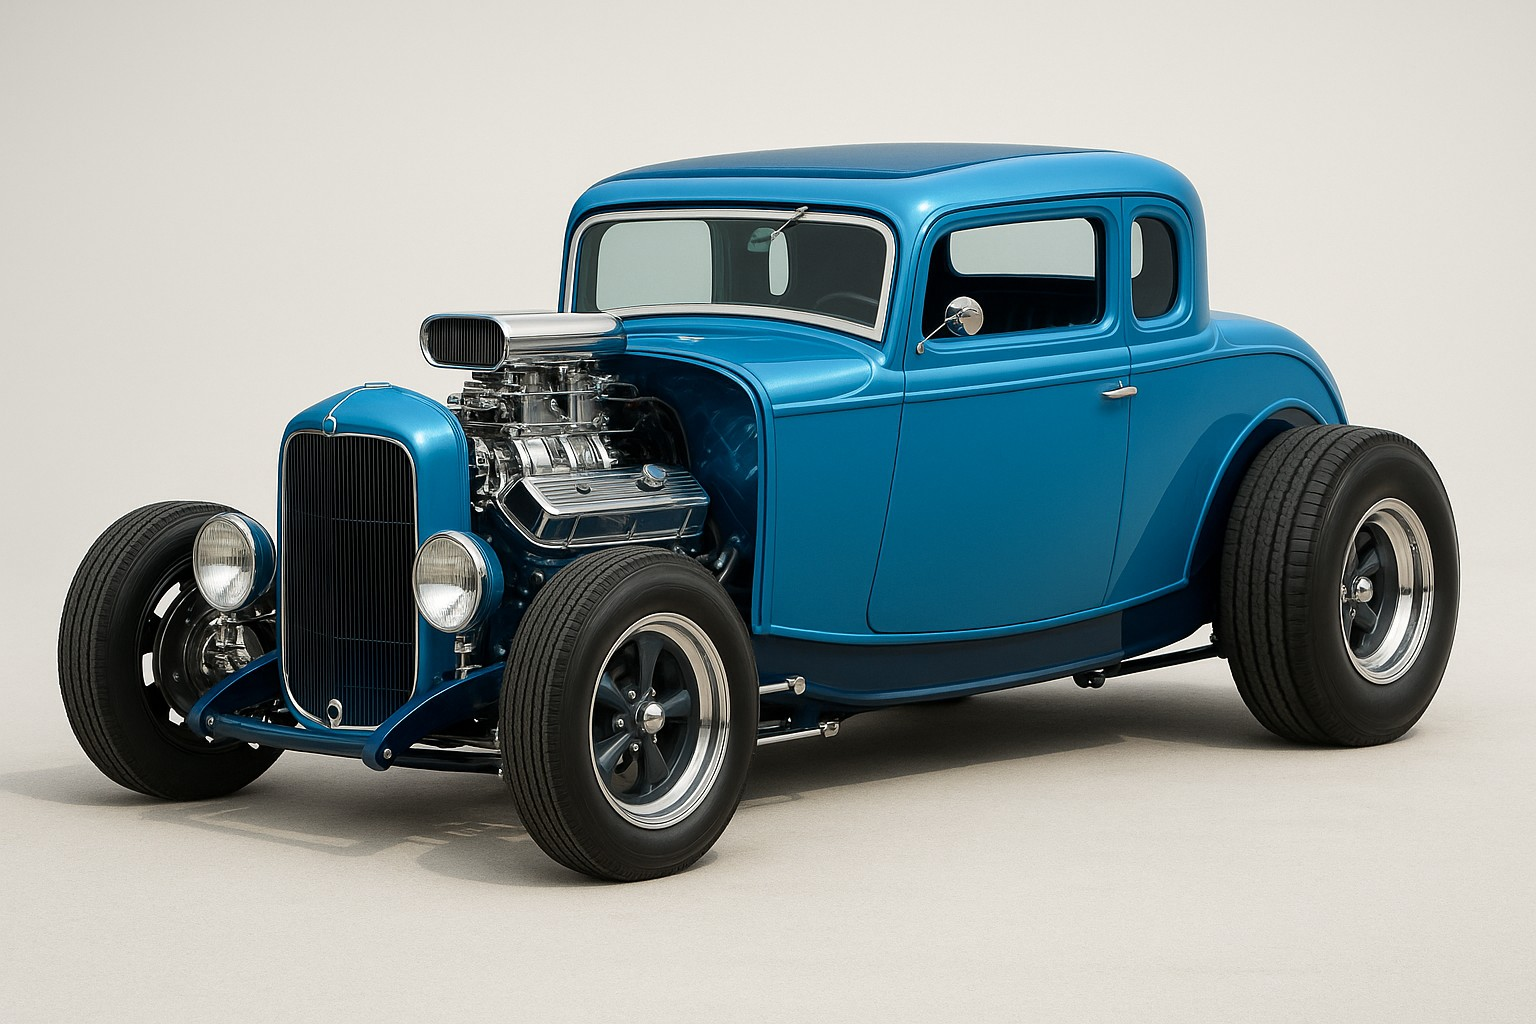
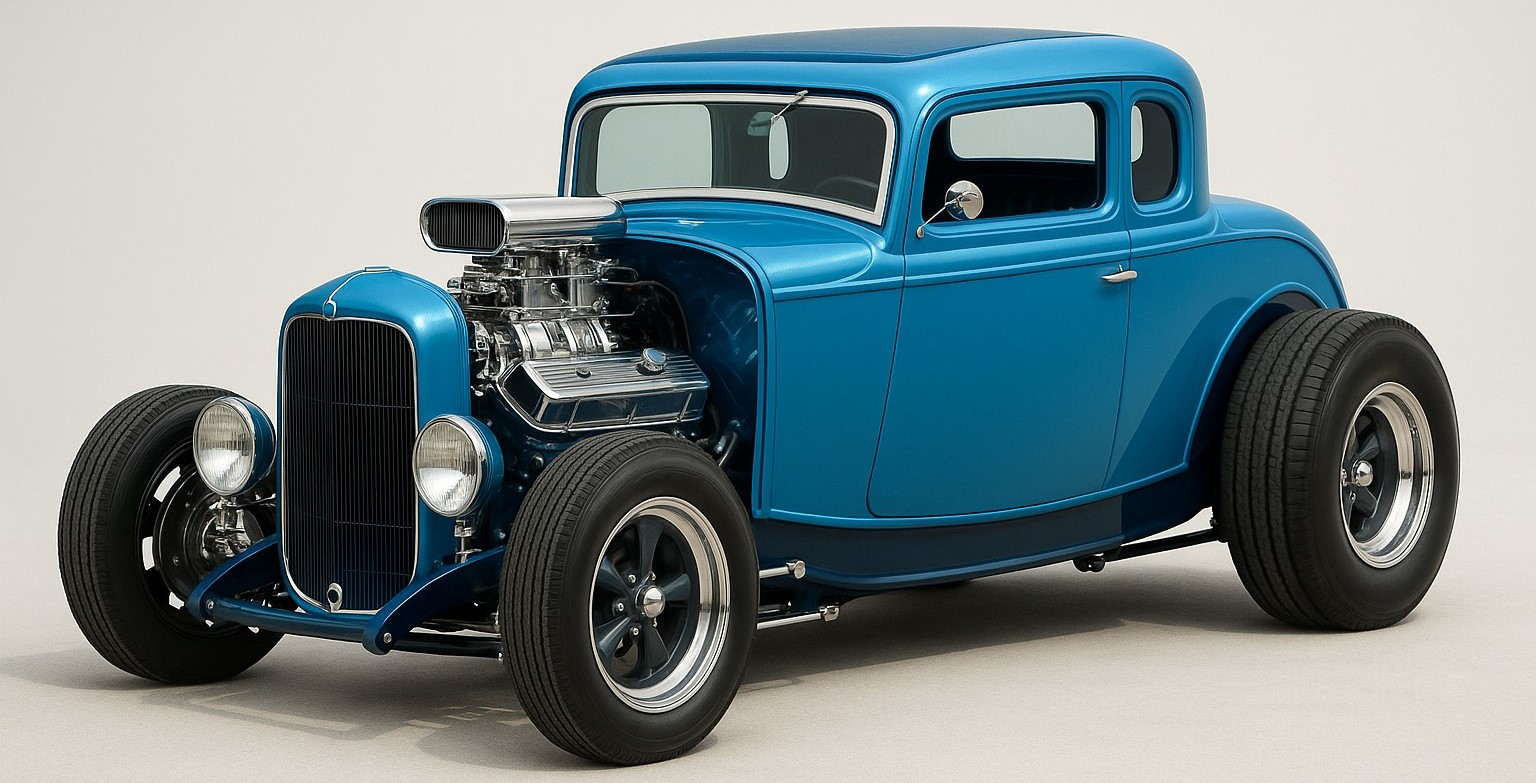
...

diff --git a/index.html b/index.html
@@ -25,8 +25,10 @@
     </head>
     <body>
         <div class="bkg-home">
-            <img src="img/hot-hod-home-carro-antigo-azul.jpg" alt="hot-hod-home-carro-antigo-azul" class="img-home-top">
+            <h1 class="texto-home-top">Carros Antigos</h1>
         </div>
-        
+        <div class="bkg-home">
+            <img src="img/hot-hod-home-carro-antigo-azul-removebg.png" alt="hot-hod-home-carro-antigo-azul" class="img-home-top">
+        </div>
     </body>    
 </html>

diff --git a/css/style.css b/css/style.css
@@ -6,5 +6,19 @@
 }
 
 .bkg-home {
-  background: #f8f8f8;
+  display: flex;
+  justify-content: center;
+  align-items: center;
+  background: linear-gradient(135deg, #cecbc4 0%, #e0ddd6 100%);
+  display: flex;
+  justify-content: center;
+  align-items: center;
+}
+
+.texto-home-top {
+  font-size: 2.5rem;
+  color: #2b9c4b;
+  text-align: center;
+  margin-top: 10px;
+  font-family: "Montserrat", sans-serif;
 }

diff --git a/scss/_bkg.scss b/scss/_bkg.scss
@@ -1,3 +1,11 @@
+@import 'variaveis';
+
 .bkg-home {
-    background: $cor-bkg;
+    display: flex;           // Adicione esta linha
+    justify-content: center; // Centraliza horizontalmente
+    align-items: center;     // Centraliza verticalmente
+    background: linear-gradient(135deg, $bege-claro2 0%, $bege-claro1 100%);
+    display: flex;
+    justify-content: center;
+    align-items: center;
 }

diff --git a/scss/_variaveis.scss b/scss/_variaveis.scss
@@ -1,2 +1,10 @@
 // Cores
-$cor-bkg: #f8f8f8;
+$vermelho: #ff0000;
+$branco: #ffffff;
+$preto: #000000;
+$azul: #0000ff;
+$verde: #2b9c4b;
+$bege-claro1: #e0ddd6;
+$bege-claro2: #cecbc4;
+//Fontes
+$fonte-principal: 'Montserrat', sans-serif;

diff --git a/scss/_titulos.scss b/scss/_titulos.scss
@@ -1,0 +1,7 @@
+.texto-home-top {
+    font-size: 2.5rem;
+    color: $verde;
+    text-align: center;
+    margin-top: 10px;
+    font-family: $fonte-principal;
+}

diff --git a/scss/style.scss b/scss/style.scss
@@ -1,3 +1,4 @@
-@use 'variaveis';
-@use 'img';
-@use 'bkg';
+@import 'variaveis';
+@import 'img';
+@import 'bkg';
+@import 'titulos';
